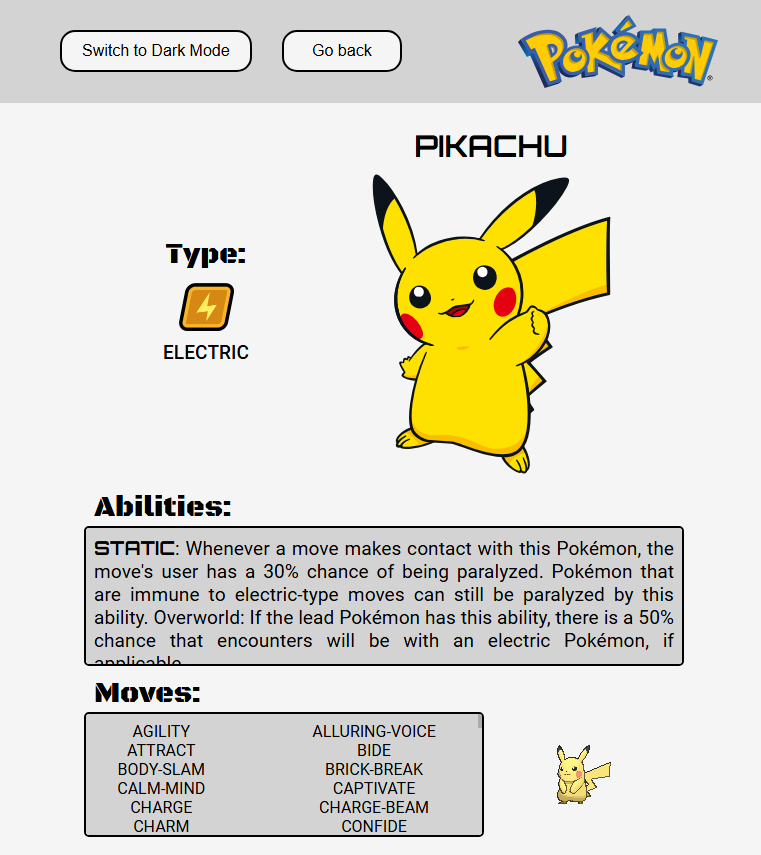
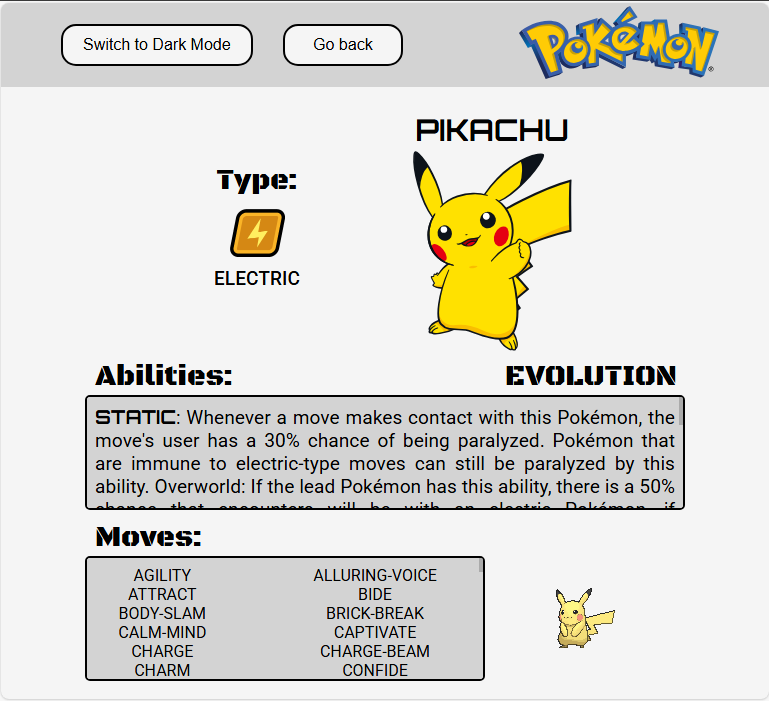
readme update

diff --git a/README.md b/README.md
@@ -76,6 +76,15 @@ Por padrão preferi utilizar o Inglês como idioma do app.
 
 </div>
 
+## Bonus
+
+<div align="justify">
+
+- Informações visuais referentes à cadeia de evolução dos pokémons nas telas de detalhes, se o pokémon selecionado evolui para MEGA, há um botão "EVOLUTION" para alternar os movimentos e os detalhes dessa evolução, botões animados, tanto para o tema "Light" quanto para o "Dark".
+
+
+</div>
+
 # Telas
 
 ## Desktop
@@ -136,7 +145,7 @@ https://github.com/user-attachments/assets/5feb012c-3853-49d7-bfff-c0e3aad42da5
 <div align="justify">
 
 Em diversos momentos fiquei travado, e somente após ver e rever as possibilidades, de por em prática da forma que gostaria, realizar diversos testes, que me levavam a outros ajustes, consegui atingir o resultado pretendido.
-Até o presente momento, foi o projeto mais desafiador que realizei, primeiro em manipulação de dados de um API, muitos testes para filtrar as informações específicas na estruturação do app.
+Até o presente momento, foi o projeto mais desafiador que realizei, primeiro em manipulação de dados de uma API, muitos testes para filtrar as informações específicas na estruturação do app.
 
 As partes em que tive mais dificuldades, foram na filtragem das informações na página de detalhes de cada Pokémon filtrando os dados seguindo um padrão, que na API não estão, creio q de forma propositadamente. E na parte lógica de qual seria a forma de filtrar por tipo, e de que forma eu a faria. A mecânica que encontrei faz buscas por etapas, a cada 100 Pokémons de todos os possíveis, adiciona os do tipo informado, e ao clicar no botão "Load More" ele passa aos próximos 100 para filtrar novamente os próximos a serem renderizados, até atingir o número total disponível na API. E a parte que tive mais dificuldade, foi na prevenção de erros nos resultados dessa lista, objetivo alcançado após muitos e muitos testes.
 Após percorrer por todos esses caminhos, pensar, repensar e aperfeiçoar, fiquei bastante satisfeito com o resultado alcançado.
